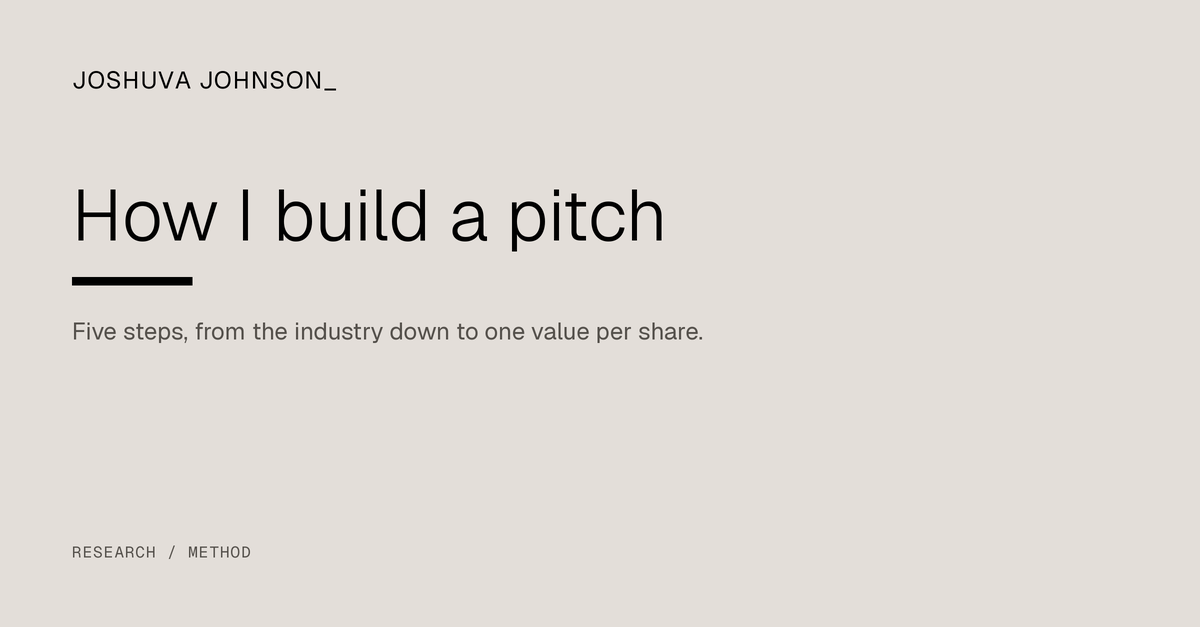
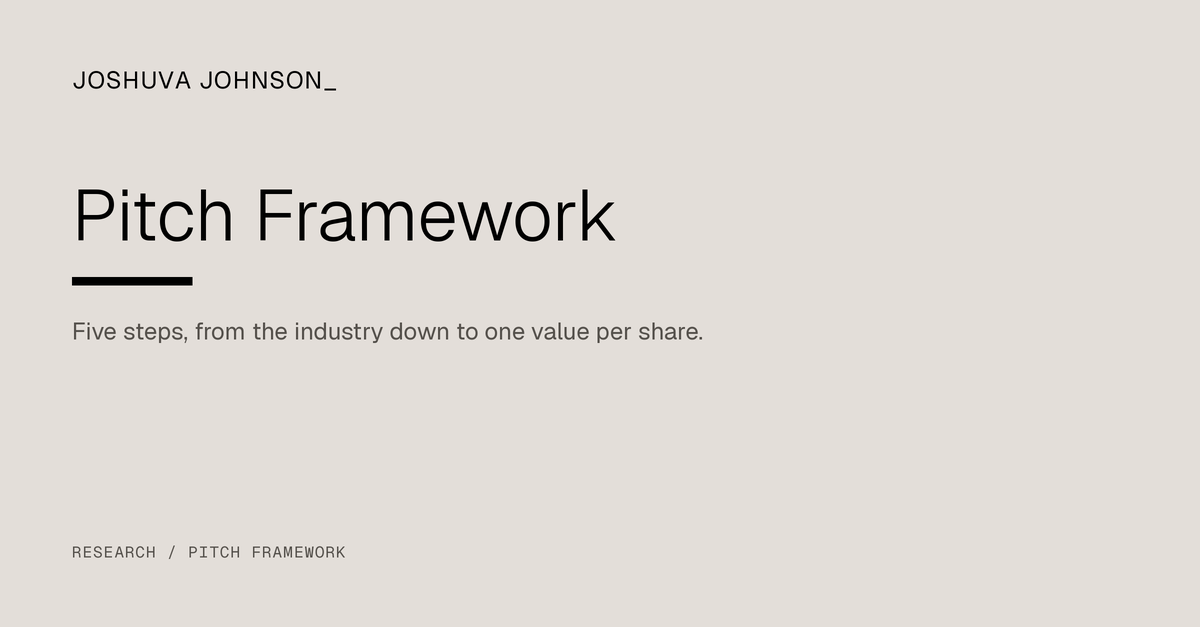
Nav: Home and daily dose of wisdom; door transition; Pitch Framework
- Nav and footer gain Home, and a serif 'daily dose of wisdom' link with a
  small lamp; on phones it shares the name's row so the nav stays two rows.
- Clicking into the section from any page opens midnight from the click
  point, then the page's own entrance plays (skipped for reduced motion,
  modified clicks and Back).
- Share image for /wisdom/; added to the sitemap.
- 'How I build a pitch' is now 'Pitch Framework' (same URL).

Claude-Session: https://claude.ai/code/session_01Dc4KQMDr4px4SMpMrXU2Lh

Changed region(s): [[0.0617, 0.303, 0.555, 0.3939], [0.1542, 0.8485, 0.2775, 0.9091]]

diff --git a/assets/site.css b/assets/site.css
@@ -7,6 +7,8 @@
 @font-face{font-family:"Geist Mono";font-style:normal;font-display:swap;font-weight:100 900;src:url(/assets/fonts/geist-mono-latin-wght-normal.woff2) format("woff2-variations"),url(/assets/fonts/geist-mono-latin-wght-normal.woff2) format("woff2");unicode-range:U+0000-00FF,U+0131,U+0152-0153,U+02BB-02BC,U+02C6,U+02DA,U+02DC,U+0304,U+0308,U+0329,U+2000-206F,U+20AC,U+2122,U+2191,U+2193,U+2212,U+2215,U+FEFF,U+FFFD}
 @font-face{font-family:"Geist Mono";font-style:normal;font-display:swap;font-weight:100 900;src:url(/assets/fonts/geist-mono-latin-ext-wght-normal.woff2) format("woff2-variations"),url(/assets/fonts/geist-mono-latin-ext-wght-normal.woff2) format("woff2");unicode-range:U+0100-02BA,U+02BD-02C5,U+02C7-02CC,U+02CE-02D7,U+02DD-02FF,U+0304,U+0308,U+0329,U+1D00-1DBF,U+1E00-1E9F,U+1EF2-1EFF,U+2020,U+20A0-20AB,U+20AD-20C0,U+2113,U+2C60-2C7F,U+A720-A7FF}
 
+@font-face{font-family:"Instrument Serif";font-style:italic;font-weight:400;font-display:swap;src:url(/assets/fonts/instrument-serif-latin-400-italic.woff2) format("woff2")}
+
 /* ---------- Tokens ---------- */
 :root{
   color-scheme:light dark;
@@ -60,10 +62,21 @@ main>section:last-child,main>.sec:last-child{padding-bottom:112px}
 .nav .wrap{display:flex;flex-wrap:wrap;align-items:center;justify-content:space-between;gap:0 32px;min-height:72px}
 .mark{font-size:18px;line-height:24px;font-weight:400;letter-spacing:.04em;text-transform:uppercase;text-decoration:none;display:inline-flex;align-items:center;min-height:44px;white-space:nowrap}
 .mark::after{content:"_";content:"_"/"";margin-left:1px}
-.links{display:flex;gap:0 32px;list-style:none;padding:0}
+.links{display:flex;flex-wrap:wrap;gap:0 32px;list-style:none;padding:0}
 .links a{display:inline-flex;align-items:center;min-height:44px;font:400 13px/16px var(--mono);letter-spacing:.06em;text-transform:uppercase;color:var(--ink);text-decoration:none;text-underline-offset:7px;text-decoration-thickness:1px}
 .links a:hover,.links a[aria-current=page]{text-decoration:underline}
-@media(max-width:640px){.nav .wrap{min-height:64px;padding-block:6px}.mark{font-size:16px}.links{gap:0 22px}}
+.links a.dose{font:italic 400 19px/16px "Instrument Serif",Georgia,serif;letter-spacing:0;text-transform:none;text-underline-offset:6px}
+/* The door to the other room: a small lamp beside its name. */
+.links a.dose::before{content:"";width:5px;height:5px;border-radius:50%;background:#F3B562;box-shadow:0 0 8px 1px rgba(243,181,98,.7);margin-right:8px;flex:none}
+@media(max-width:640px){.nav .wrap{min-height:64px;padding-block:6px}.mark{font-size:16px}.links{gap:0 20px}
+  /* Phones: the door sits on the name's row, the four sections on the row below. */
+  .nav .wrap{justify-content:flex-start;column-gap:20px}.nav .links{display:contents}.nav .links li{order:2}.nav .links .door{order:1;margin-left:auto}
+  .nav .links a.dose{font-size:17px}}
+@media(max-width:400px){.nav .wrap{column-gap:12px}.nav .mark{font-size:15px}.nav .links a.dose{font-size:16px}.links a.dose::before{margin-right:6px}}
+/* Going through that door: midnight opens from where you clicked. */
+.portal-out{position:fixed;z-index:200;left:var(--x);top:var(--y);width:300vmax;height:300vmax;margin:-150vmax 0 0 -150vmax;border-radius:50%;pointer-events:none;
+  background:radial-gradient(closest-side,#05070F 0 96%,rgba(243,181,98,.55) 98.5%,rgba(243,181,98,0) 100%);transform:scale(0);animation:portal-out .55s cubic-bezier(.7,0,.25,1) forwards}
+@keyframes portal-out{to{transform:scale(1)}}
 
 /* ---------- Footer: always ends on black ---------- */
 footer{--ink:var(--bone);--ink2:#A29D97;--rule:#2E2B28;background:light-dark(var(--black),#141312);color:var(--ink2);font-size:14px;line-height:21px;padding-block:56px 64px}

diff --git a/research/method/index.html b/research/method/index.html
@@ -3,18 +3,18 @@
 <head>
 <meta charset="utf-8">
 <meta name="viewport" content="width=device-width, initial-scale=1">
-<title>How I build a pitch | Joshuva Johnson</title>
+<title>Pitch Framework | Joshuva Johnson</title>
 <meta name="description" content="Every stock pitch follows the same five steps: industry, business, model, valuation and risks. Each step is shown with a real exhibit from a pitch.">
 <link rel="canonical" href="https://joshuvajohnson.github.io/research/method/">
 <meta property="og:site_name" content="Joshuva Johnson">
-<meta property="og:title" content="How I build a pitch">
+<meta property="og:title" content="Pitch Framework">
 <meta property="og:description" content="Every stock pitch follows the same five steps: industry, business, model, valuation and risks. Each step is shown with a real exhibit from a pitch.">
 <meta property="og:url" content="https://joshuvajohnson.github.io/research/method/">
 <meta property="og:type" content="website">
 <meta property="og:image" content="https://joshuvajohnson.github.io/assets/og/research-method.png">
 <meta property="og:image:width" content="1200">
 <meta property="og:image:height" content="627">
-<meta property="og:image:alt" content="How I build a pitch">
+<meta property="og:image:alt" content="Pitch Framework">
 <meta name="twitter:card" content="summary_large_image">
 <meta name="author" content="Joshuva Johnson">
 <link rel="icon" href="/favicon.ico" sizes="48x48">
@@ -33,9 +33,11 @@
   <div class="wrap">
     <a class="mark" href="/">Joshuva Johnson</a>
     <ul class="links">
+      <li><a href="/">Home</a></li>
       <li><a href="/notes/">Notes</a></li>
       <li><a href="/research/" aria-current="page">Research</a></li>
       <li><a href="/about/">About</a></li>
+      <li class="door"><a class="dose" href="/wisdom/">daily dose of wisdom</a></li>
     </ul>
   </div>
 </nav>
@@ -43,12 +45,12 @@
 <main id="main">
 <div class="gut">
   <div class="wrap" style="padding-top:clamp(48px,7vw,88px)">
-    <p class="crumbs"><a href="/research/">Research</a><span>/</span><span>Method</span></p>
+    <p class="crumbs"><a href="/research/">Research</a><span>/</span><span>Pitch Framework</span></p>
   </div>
 </div>
 <section class="sec gut" style="padding-top:24px">
   <div class="wrap">
-    <div class="head"><h1 class="pagetitle">How I build a pitch</h1><p class="sub">Every stock pitch on this site follows the same five steps, from the industry down to one value per share. The exhibits below are real, each taken from a pitch.</p></div>
+    <div class="head"><h1 class="pagetitle">Pitch Framework</h1><p class="sub">Every stock pitch on this site follows the same five steps, from the industry down to one value per share. The exhibits below are real, each taken from a pitch.</p></div>
     <div id="steps">
 
       <article class="st">
@@ -149,9 +151,11 @@
     <div class="top">
       <a class="mark" href="/">Joshuva Johnson</a>
       <ul class="links">
+        <li><a href="/">Home</a></li>
         <li><a href="/notes/">Notes</a></li>
         <li><a href="/research/" aria-current="page">Research</a></li>
         <li><a href="/about/">About</a></li>
+        <li><a class="dose" href="/wisdom/">daily dose of wisdom</a></li>
         <li><a href="https://www.linkedin.com/in/joshuvajohnson">LinkedIn</a></li>
       </ul>
     </div>

diff --git a/wisdom/index.html b/wisdom/index.html
@@ -11,6 +11,11 @@
 <meta property="og:description" content="Spin a wheel of seven podcasts and get one random episode to listen to.">
 <meta property="og:url" content="https://joshuvajohnson.github.io/wisdom/">
 <meta property="og:type" content="website">
+<meta property="og:image" content="https://joshuvajohnson.github.io/assets/og/wisdom.png">
+<meta property="og:image:width" content="1200">
+<meta property="og:image:height" content="627">
+<meta property="og:image:alt" content="Daily Dose of Wisdom">
+<meta name="twitter:card" content="summary_large_image">
 <link rel="preload" href="/assets/fonts/instrument-serif-latin-400-italic.woff2" as="font" type="font/woff2" crossorigin>
 <link rel="stylesheet" href="/assets/wisdom.css">
 <meta name="theme-color" content="#05070F">
@@ -33,9 +38,11 @@
   <div class="wrap">
     <a class="mark" href="/">Joshuva Johnson</a>
     <ul class="links">
+      <li><a href="/">Home</a></li>
       <li><a href="/notes/">Notes</a></li>
       <li><a href="/research/">Research</a></li>
       <li><a href="/about/">About</a></li>
+      <li class="door"><a class="dose" href="/wisdom/" aria-current="page">daily dose of wisdom</a></li>
     </ul>
   </div>
 </nav>
@@ -91,9 +98,11 @@
     <div class="top">
       <a class="mark" href="/">Joshuva Johnson</a>
       <ul class="links">
+        <li><a href="/">Home</a></li>
         <li><a href="/notes/">Notes</a></li>
         <li><a href="/research/">Research</a></li>
         <li><a href="/about/">About</a></li>
+        <li><a class="dose" href="/wisdom/" aria-current="page">daily dose of wisdom</a></li>
         <li><a href="https://www.linkedin.com/in/joshuvajohnson">LinkedIn</a></li>
       </ul>
     </div>

diff --git a/src/content/pages/method.html b/src/content/pages/method.html
@@ -1,14 +1,14 @@
 <!--meta
-{"title": "How I build a pitch", "page_title": "How I build a pitch | Joshuva Johnson", "dek": "Every stock pitch follows the same five steps: industry, business, model, valuation and risks. Each step is shown with a real exhibit from a pitch.", "path": "/research/method/", "nav": "research", "legacy": "r-method"}
+{"title": "Pitch Framework", "page_title": "Pitch Framework | Joshuva Johnson", "dek": "Every stock pitch follows the same five steps: industry, business, model, valuation and risks. Each step is shown with a real exhibit from a pitch.", "path": "/research/method/", "nav": "research", "legacy": "r-method"}
 -->
 <div class="gut">
   <div class="wrap" style="padding-top:clamp(48px,7vw,88px)">
-    <p class="crumbs"><a href="/research/">Research</a><span>/</span><span>Method</span></p>
+    <p class="crumbs"><a href="/research/">Research</a><span>/</span><span>Pitch Framework</span></p>
   </div>
 </div>
 <section class="sec gut" style="padding-top:24px">
   <div class="wrap">
-    <div class="head"><h1 class="pagetitle">How I build a pitch</h1><p class="sub">Every stock pitch on this site follows the same five steps, from the industry down to one value per share. The exhibits below are real, each taken from a pitch.</p></div>
+    <div class="head"><h1 class="pagetitle">Pitch Framework</h1><p class="sub">Every stock pitch on this site follows the same five steps, from the industry down to one value per share. The exhibits below are real, each taken from a pitch.</p></div>
     <div id="steps">
 
       <article class="st">

diff --git a/research/index.html b/research/index.html
@@ -33,9 +33,11 @@
   <div class="wrap">
     <a class="mark" href="/">Joshuva Johnson</a>
     <ul class="links">
+      <li><a href="/">Home</a></li>
       <li><a href="/notes/">Notes</a></li>
       <li><a href="/research/" aria-current="page">Research</a></li>
       <li><a href="/about/">About</a></li>
+      <li class="door"><a class="dose" href="/wisdom/">daily dose of wisdom</a></li>
     </ul>
   </div>
 </nav>
@@ -44,7 +46,7 @@
 <header class="hero gut">
   <div class="wrap">
     <h1>Research</h1>
-    <div class="ctas"><a class="textlink" href="/research/method/">How I build a pitch</a></div>
+    <div class="ctas"><a class="textlink" href="/research/method/">Pitch Framework</a></div>
   </div>
 </header>
 
@@ -83,9 +85,11 @@
     <div class="top">
       <a class="mark" href="/">Joshuva Johnson</a>
       <ul class="links">
+        <li><a href="/">Home</a></li>
         <li><a href="/notes/">Notes</a></li>
         <li><a href="/research/" aria-current="page">Research</a></li>
         <li><a href="/about/">About</a></li>
+        <li><a class="dose" href="/wisdom/">daily dose of wisdom</a></li>
         <li><a href="https://www.linkedin.com/in/joshuvajohnson">LinkedIn</a></li>
       </ul>
     </div>

diff --git a/assets/site.js b/assets/site.js
@@ -67,6 +67,22 @@
     document.addEventListener('click', e => { if (pinned && !wm.contains(e.target)) { pinned = ''; show(); } });
   }
 
+  // ---------- The way into daily dose of wisdom: midnight opens from the click, then the page loads ----------
+  document.addEventListener('click', e => {
+    const a = e.target.closest && e.target.closest('a[href="/wisdom/"]');
+    if (!a || reduce || e.defaultPrevented || e.button !== 0 || e.metaKey || e.ctrlKey || e.shiftKey || e.altKey) return;
+    if (location.pathname === '/wisdom/') return;
+    e.preventDefault();
+    const o = document.createElement('div');
+    o.className = 'portal-out';
+    o.style.setProperty('--x', (e.clientX || innerWidth / 2) + 'px');
+    o.style.setProperty('--y', (e.clientY || innerHeight / 2) + 'px');
+    document.body.appendChild(o);
+    setTimeout(() => { location.href = a.href; }, 520);
+  });
+  // Coming back with the Back button: clear the door so the page isn't left dark.
+  addEventListener('pageshow', e => { if (e.persisted) for (const o of $$('.portal-out')) o.remove(); });
+
   // ---------- Keep drawn pieces sized to their boxes ----------
   const resize = () => segs.forEach(segInd);
   requestAnimationFrame(resize);

diff --git a/src/templates/base.html b/src/templates/base.html
@@ -28,9 +28,11 @@
   <div class="wrap">
     <a class="mark" href="/">Joshuva Johnson</a>
     <ul class="links">
+      <li><a href="/"{{NAV_HOME}}>Home</a></li>
       <li><a href="/notes/"{{NAV_NOTES}}>Notes</a></li>
       <li><a href="/research/"{{NAV_RESEARCH}}>Research</a></li>
       <li><a href="/about/"{{NAV_ABOUT}}>About</a></li>
+      <li class="door"><a class="dose" href="/wisdom/"{{NAV_WISDOM}}>daily dose of wisdom</a></li>
     </ul>
   </div>
 </nav>
@@ -44,9 +46,11 @@
     <div class="top">
       <a class="mark" href="/">Joshuva Johnson</a>
       <ul class="links">
+        <li><a href="/"{{NAV_HOME}}>Home</a></li>
         <li><a href="/notes/"{{NAV_NOTES}}>Notes</a></li>
         <li><a href="/research/"{{NAV_RESEARCH}}>Research</a></li>
         <li><a href="/about/"{{NAV_ABOUT}}>About</a></li>
+        <li><a class="dose" href="/wisdom/"{{NAV_WISDOM}}>daily dose of wisdom</a></li>
         <li><a href="https://www.linkedin.com/in/joshuvajohnson">LinkedIn</a></li>
       </ul>
     </div>

diff --git a/index.html b/index.html
@@ -35,9 +35,11 @@
   <div class="wrap">
     <a class="mark" href="/">Joshuva Johnson</a>
     <ul class="links">
+      <li><a href="/" aria-current="page">Home</a></li>
       <li><a href="/notes/">Notes</a></li>
       <li><a href="/research/">Research</a></li>
       <li><a href="/about/">About</a></li>
+      <li class="door"><a class="dose" href="/wisdom/">daily dose of wisdom</a></li>
     </ul>
   </div>
 </nav>
@@ -165,9 +167,11 @@
     <div class="top">
       <a class="mark" href="/">Joshuva Johnson</a>
       <ul class="links">
+        <li><a href="/" aria-current="page">Home</a></li>
         <li><a href="/notes/">Notes</a></li>
         <li><a href="/research/">Research</a></li>
         <li><a href="/about/">About</a></li>
+        <li><a class="dose" href="/wisdom/">daily dose of wisdom</a></li>
         <li><a href="https://www.linkedin.com/in/joshuvajohnson">LinkedIn</a></li>
       </ul>
     </div>

diff --git a/notes/rates-sell-off/index.html b/notes/rates-sell-off/index.html
@@ -35,9 +35,11 @@
   <div class="wrap">
     <a class="mark" href="/">Joshuva Johnson</a>
     <ul class="links">
+      <li><a href="/">Home</a></li>
       <li><a href="/notes/" aria-current="page">Notes</a></li>
       <li><a href="/research/">Research</a></li>
       <li><a href="/about/">About</a></li>
+      <li class="door"><a class="dose" href="/wisdom/">daily dose of wisdom</a></li>
     </ul>
   </div>
 </nav>
@@ -101,9 +103,11 @@
     <div class="top">
       <a class="mark" href="/">Joshuva Johnson</a>
       <ul class="links">
+        <li><a href="/">Home</a></li>
         <li><a href="/notes/" aria-current="page">Notes</a></li>
         <li><a href="/research/">Research</a></li>
         <li><a href="/about/">About</a></li>
+        <li><a class="dose" href="/wisdom/">daily dose of wisdom</a></li>
         <li><a href="https://www.linkedin.com/in/joshuvajohnson">LinkedIn</a></li>
       </ul>
     </div>

diff --git a/research/eaton/index.html b/research/eaton/index.html
@@ -35,9 +35,11 @@
   <div class="wrap">
     <a class="mark" href="/">Joshuva Johnson</a>
     <ul class="links">
+      <li><a href="/">Home</a></li>
       <li><a href="/notes/">Notes</a></li>
       <li><a href="/research/" aria-current="page">Research</a></li>
       <li><a href="/about/">About</a></li>
+      <li class="door"><a class="dose" href="/wisdom/">daily dose of wisdom</a></li>
     </ul>
   </div>
 </nav>
@@ -166,9 +168,11 @@
     <div class="top">
       <a class="mark" href="/">Joshuva Johnson</a>
       <ul class="links">
+        <li><a href="/">Home</a></li>
         <li><a href="/notes/">Notes</a></li>
         <li><a href="/research/" aria-current="page">Research</a></li>
         <li><a href="/about/">About</a></li>
+        <li><a class="dose" href="/wisdom/">daily dose of wisdom</a></li>
         <li><a href="https://www.linkedin.com/in/joshuvajohnson">LinkedIn</a></li>
       </ul>
     </div>

diff --git a/research/honeywell/index.html b/research/honeywell/index.html
@@ -35,9 +35,11 @@
   <div class="wrap">
     <a class="mark" href="/">Joshuva Johnson</a>
     <ul class="links">
+      <li><a href="/">Home</a></li>
       <li><a href="/notes/">Notes</a></li>
       <li><a href="/research/" aria-current="page">Research</a></li>
       <li><a href="/about/">About</a></li>
+      <li class="door"><a class="dose" href="/wisdom/">daily dose of wisdom</a></li>
     </ul>
   </div>
 </nav>
@@ -153,9 +155,11 @@
     <div class="top">
       <a class="mark" href="/">Joshuva Johnson</a>
       <ul class="links">
+        <li><a href="/">Home</a></li>
         <li><a href="/notes/">Notes</a></li>
         <li><a href="/research/" aria-current="page">Research</a></li>
         <li><a href="/about/">About</a></li>
+        <li><a class="dose" href="/wisdom/">daily dose of wisdom</a></li>
         <li><a href="https://www.linkedin.com/in/joshuvajohnson">LinkedIn</a></li>
       </ul>
     </div>

diff --git a/research/palantir/index.html b/research/palantir/index.html
@@ -35,9 +35,11 @@
   <div class="wrap">
     <a class="mark" href="/">Joshuva Johnson</a>
     <ul class="links">
+      <li><a href="/">Home</a></li>
       <li><a href="/notes/">Notes</a></li>
       <li><a href="/research/" aria-current="page">Research</a></li>
       <li><a href="/about/">About</a></li>
+      <li class="door"><a class="dose" href="/wisdom/">daily dose of wisdom</a></li>
     </ul>
   </div>
 </nav>
@@ -155,9 +157,11 @@
     <div class="top">
       <a class="mark" href="/">Joshuva Johnson</a>
       <ul class="links">
+        <li><a href="/">Home</a></li>
         <li><a href="/notes/">Notes</a></li>
         <li><a href="/research/" aria-current="page">Research</a></li>
         <li><a href="/about/">About</a></li>
+        <li><a class="dose" href="/wisdom/">daily dose of wisdom</a></li>
         <li><a href="https://www.linkedin.com/in/joshuvajohnson">LinkedIn</a></li>
       </ul>
     </div>
